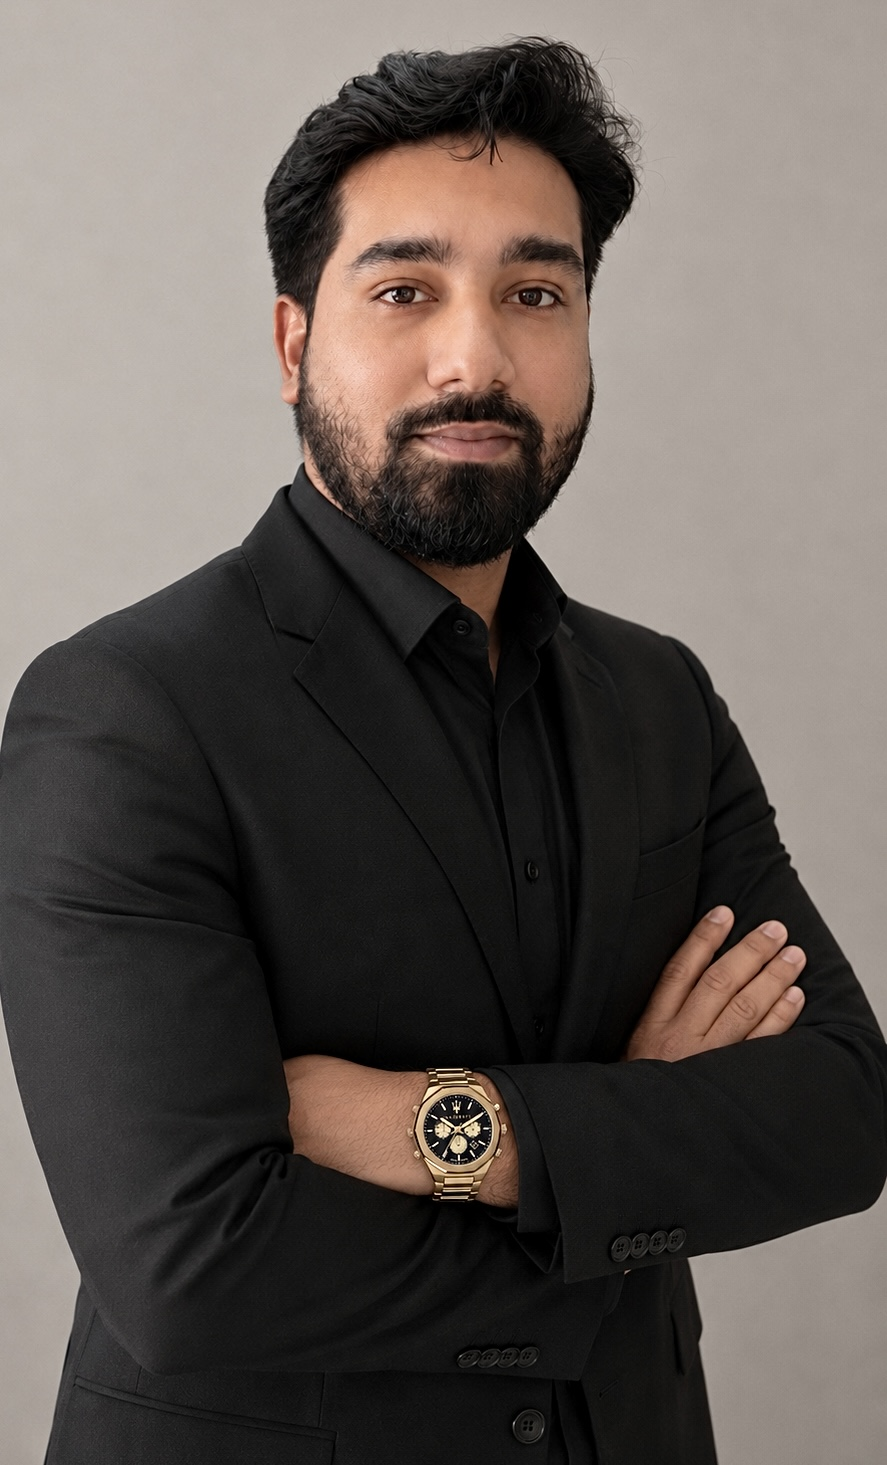
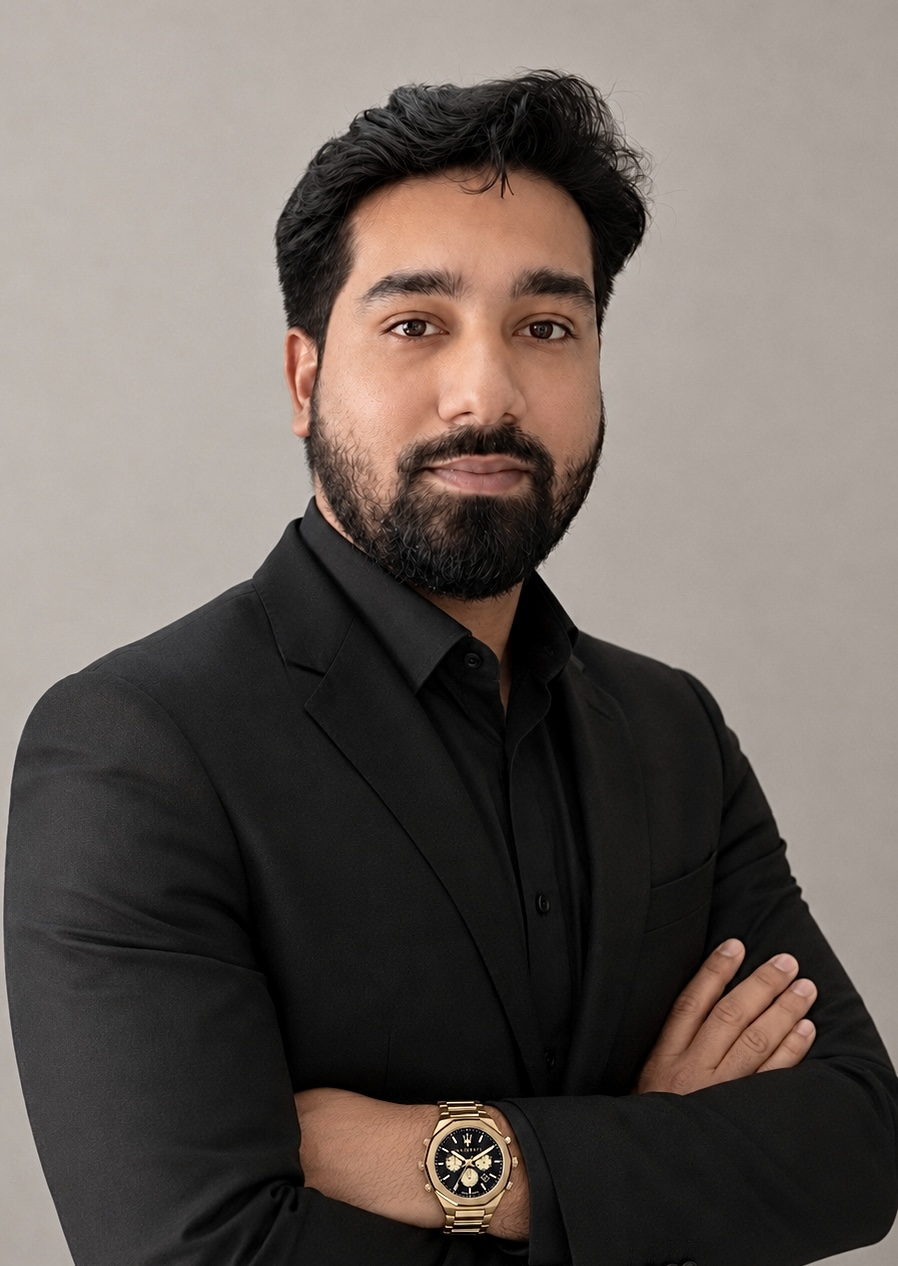
Update tagline to single-line in VexHero, relocate FounderShowcase after Testimonials, reorder Services flow, add gradients in FreedomSection, replace calculator text quotes, change footer MS text colors to gold, and convert MS BUILDERS to MS BUILDER

diff --git a/src/components/ui/toonhub-hero-component.tsx b/src/components/ui/toonhub-hero-component.tsx
@@ -5,11 +5,18 @@ import { ArrowLeft, ArrowRight } from 'lucide-react';
 
 const SERVICES = [
   { 
-    name: 'Interior', 
-    src: '/ser/intt.png', 
-    bg: '#1A365D', 
-    bgImg: '/ser/int.png',
-    desc: 'Bespoke interior spaces, custom modular furniture designs, detailed space planning, and beautiful layouts.' 
+    name: '3D Render', 
+    src: '/ser/3dd.png', 
+    bg: '#744210', 
+    bgImg: '/ser/3d.png',
+    desc: 'Ultra-realistic 3D walkthrough rendering animations for interior & exterior visualization.' 
+  },
+  { 
+    name: '2D Design', 
+    src: '/ser/2dd.png', 
+    bg: '#22543D', 
+    bgImg: '/ser/2d.png',
+    desc: 'High-fidelity 2D layouts, detailed blueprints, column positions, and precise architectural plans.' 
   },
   { 
     name: 'Exterior', 
@@ -17,6 +24,13 @@ const SERVICES = [
     bg: '#2D3748', 
     bgImg: '/ser/ext.png',
     desc: 'Architectural elevation concepts, modern landscape structures, and premium facade fabrications.' 
+  },
+  { 
+    name: 'Interior', 
+    src: '/ser/intt.png', 
+    bg: '#1A365D', 
+    bgImg: '/ser/int.png',
+    desc: 'Bespoke interior spaces, custom modular furniture designs, detailed space planning, and beautiful layouts.' 
   },
   { 
     name: 'Real Estate', 
@@ -31,20 +45,6 @@ const SERVICES = [
     bg: '#2C5282', 
     bgImg: '/ser/reno.png',
     desc: 'Complete property structural remodeling, home extensions, restorations, and space renewals.' 
-  },
-  { 
-    name: '2D Design', 
-    src: '/ser/2dd.png', 
-    bg: '#22543D', 
-    bgImg: '/ser/2d.png',
-    desc: 'High-fidelity 2D layouts, detailed blueprints, column positions, and precise architectural plans.' 
-  },
-  { 
-    name: '3D Design', 
-    src: '/ser/3dd.png', 
-    bg: '#744210', 
-    bgImg: '/ser/3d.png',
-    desc: 'Ultra-realistic 3D walkthrough rendering animations for interior & exterior visualization.' 
   },
   { 
     name: 'Structural', 

diff --git a/src/components/ui/hover-footer.tsx b/src/components/ui/hover-footer.tsx
@@ -52,11 +52,12 @@ export const TextHoverEffect = ({
         >
           {hovered && (
             <>
-              <stop offset="0%" stopColor="#eab308" />
-              <stop offset="25%" stopColor="#ef4444" />
-              <stop offset="50%" stopColor="#80eeb4" />
-              <stop offset="75%" stopColor="#06b6d4" />
-              <stop offset="100%" stopColor="#8b5cf6" />
+              <stop offset="0%" stopColor="#AA771C" />
+              <stop offset="20%" stopColor="#F1C40F" />
+              <stop offset="40%" stopColor="#FFD700" />
+              <stop offset="60%" stopColor="#D4AF37" />
+              <stop offset="80%" stopColor="#F39C12" />
+              <stop offset="100%" stopColor="#AA771C" />
             </>
           )}
         </linearGradient>
@@ -99,8 +100,8 @@ export const TextHoverEffect = ({
         textAnchor="middle"
         dominantBaseline="middle"
         strokeWidth="0.3"
-        className="fill-transparent stroke-[#3ca2fa] font-[helvetica] text-7xl font-bold 
-        dark:stroke-[#3ca2fa99]"
+        className="fill-transparent stroke-[#D4AF37] font-[helvetica] text-7xl font-bold 
+        dark:stroke-[#D4AF37cc]"
         initial={{ strokeDashoffset: 1000, strokeDasharray: 1000 }}
         whileInView={{
           strokeDashoffset: 0,
@@ -127,7 +128,7 @@ export const TextHoverEffect = ({
         {text}
       </text>
 
-      {/* Subtitle: Builders & Developers */}
+      {/* Subtitle: Builder & Developers */}
       <text
         x="50%"
         y="78%"
@@ -137,7 +138,7 @@ export const TextHoverEffect = ({
         className="fill-transparent stroke-neutral-200 font-[helvetica] text-[13px] font-bold tracking-[0.3em] uppercase dark:stroke-neutral-800"
         style={{ opacity: hovered ? 0.7 : 0 }}
       >
-        Builders & Developers
+        Builder & Developers
       </text>
       <motion.text
         x="50%"
@@ -145,7 +146,7 @@ export const TextHoverEffect = ({
         textAnchor="middle"
         dominantBaseline="middle"
         strokeWidth="0.1"
-        className="fill-transparent stroke-[#3ca2fa] font-[helvetica] text-[13px] font-bold tracking-[0.3em] uppercase dark:stroke-[#3ca2fa99]"
+        className="fill-transparent stroke-[#D4AF37] font-[helvetica] text-[13px] font-bold tracking-[0.3em] uppercase dark:stroke-[#D4AF37cc]"
         initial={{ strokeDashoffset: 1000, strokeDasharray: 1000 }}
         whileInView={{
           strokeDashoffset: 0,
@@ -157,7 +158,7 @@ export const TextHoverEffect = ({
           ease: "easeInOut",
         }}
       >
-        Builders & Developers
+        Builder & Developers
       </motion.text>
       <text
         x="50%"
@@ -169,7 +170,7 @@ export const TextHoverEffect = ({
         mask="url(#textMask)"
         className="fill-transparent font-[helvetica] text-[13px] font-bold tracking-[0.3em] uppercase"
       >
-        Builders & Developers
+        Builder & Developers
       </text>
     </svg>
   );

diff --git a/src/components/ui/vex-hero-component.tsx b/src/components/ui/vex-hero-component.tsx
@@ -1,5 +1,4 @@
 import React, { useEffect, useState } from 'react';
-import { GooeyText } from './gooey-text-morphing';
 
 // --- FadeIn Component ---
 type FadeInProps = {
@@ -124,15 +123,13 @@ export const VexHero: React.FC<{ theme: 'light' | 'dark' }> = ({ theme }) => {
             className="text-4xl sm:text-5xl md:text-6xl lg:text-7xl xl:text-8xl font-black tracking-tight text-white uppercase select-none leading-none drop-shadow-lg"
           />
 
-          {/* Tagline using GooeyText Morphing effect */}
-          <FadeIn delay={700} duration={1000} className="w-full max-w-[280px] sm:max-w-[380px] md:max-w-[480px]">
-            <GooeyText
-              texts={["DREAM", "DESIGN", "DELIVER"]}
-              morphTime={1.2}
-              cooldownTime={0.4}
-              textClassName="text-white font-extrabold uppercase tracking-[0.25em] text-xl sm:text-2xl md:text-3xl lg:text-4xl drop-shadow-md select-none"
-            />
+          {/* Tagline in one line, static, below the heading */}
+          <FadeIn delay={700} duration={1000}>
+            <p className="text-white font-extrabold uppercase tracking-[0.3em] text-sm sm:text-base md:text-lg lg:text-xl drop-shadow-md select-none">
+              Dream <span className="text-[#FF5656]">✦</span> Design <span className="text-[#FF5656]">✦</span> Deliver
+            </p>
           </FadeIn>
+
 
           {/* Centered Buttons Row */}
           <FadeIn delay={1100} duration={1000}>

diff --git a/src/App.tsx b/src/App.tsx
@@ -109,9 +109,6 @@ function App() {
         <AnimatedFeatureSpotlightDemo />
       </section>
 
-      {/* NEW: Founder Showcase Section */}
-      <FounderShowcase />
-
       {/* 3rd: Services */}
       <section id="services" className="w-full h-screen relative border-b border-white/10">
         <ToonHubHero />
@@ -136,6 +133,10 @@ function App() {
       <section id="testimonials" className="w-full relative border-b border-white/10 bg-background">
         <TestimonialsDemo />
       </section>
+
+      {/* Founder Showcase Section (Relocated after Testimonials) */}
+      <FounderShowcase />
+
 
 
 

diff --git a/src/components/FreedomSection.tsx b/src/components/FreedomSection.tsx
@@ -52,6 +52,11 @@ export default function FreedomSection({ theme }: { theme: 'light' | 'dark' }) {
         <div className={`absolute inset-0 ${isDark ? 'bg-black/85' : 'bg-white/85'} transition-colors duration-300`} />
       </div>
 
+      {/* Top & Bottom Fade In/Out Overlays */}
+      <div className="absolute top-0 left-0 right-0 h-24 bg-gradient-to-b from-black to-transparent pointer-events-none z-[1]" />
+      <div className="absolute bottom-0 left-0 right-0 h-24 bg-gradient-to-t from-black to-transparent pointer-events-none z-[1]" />
+
+
       {/* Block 1 — Header */}
       <div className="flex flex-col items-center gap-9 text-center relative z-10">
         <h2 

diff --git a/src/components/ui/calculator-section.tsx b/src/components/ui/calculator-section.tsx
@@ -167,12 +167,13 @@ export function CalculatorSection() {
         {/* Header Block */}
         <div className="text-center mb-12 md:mb-20 space-y-3">
           <span className="text-[10px] md:text-xs font-mono uppercase tracking-[0.25em] text-[#FF5656] block">
-            Try project estimation calculator
+            “Try project estimation calculator
           </span>
           <h2 className="text-3xl md:text-4xl lg:text-5xl font-normal tracking-tight text-foreground max-w-2xl mx-auto leading-tight">
-            Get premium construction within your budget
+            Get premium construction within your budget”
           </h2>
         </div>
+
 
         {/* 2-Column Grid */}
         <div className="grid grid-cols-1 lg:grid-cols-2 rounded-3xl overflow-hidden border border-black/10 dark:border-white/10 shadow-2xl">

diff --git a/src/components/hover-footer-demo.tsx b/src/components/hover-footer-demo.tsx
@@ -117,7 +117,7 @@ export default function HoverFooterDemo() {
               ✦ OUR HEADQUARTERS ✦
             </div>
             <h3 className="text-2xl md:text-3xl font-extrabold text-white leading-tight">
-              MS BUILDERS & DEVELOPERS
+              MS BUILDER & DEVELOPERS
             </h3>
             <p className="text-gray-400 text-sm md:text-base leading-relaxed font-light">
               2nd floor, Kumbeshwara Complex, Devanahalli, Karnataka - 562110
@@ -152,7 +152,7 @@ export default function HoverFooterDemo() {
               <span className="text-white text-3xl font-bold">MS</span>
             </div>
             <p className="text-sm leading-relaxed text-gray-400 font-light">
-              MS BUILDERS & DEVELOPERS is a premium real estate, construction, interior designing, and renovation firm.
+              MS BUILDER & DEVELOPERS is a premium real estate, construction, interior designing, and renovation firm.
             </p>
           </div>
 